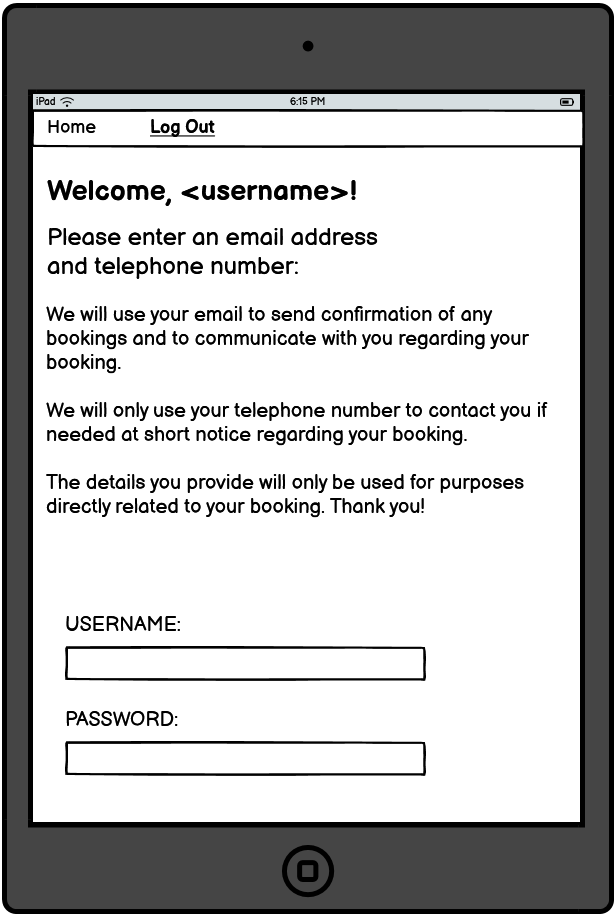
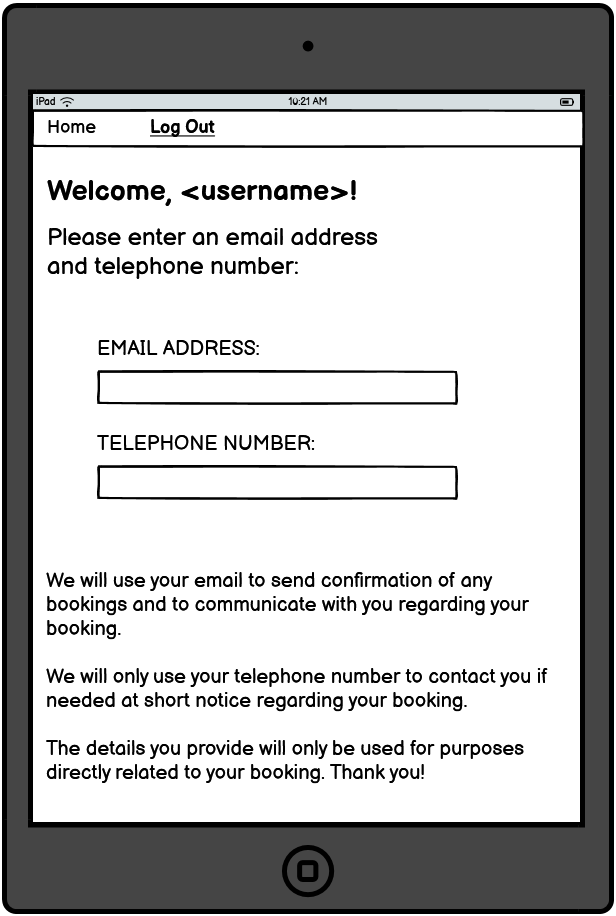
Revise wireframes in readme

Changed region(s): [[0.0617, 0.3362, 0.8945, 0.5808], [0.0617, 0.6114, 0.8945, 0.8559], [0.4627, 0.0917, 0.5244, 0.1223]]

diff --git a/README.md b/README.md
@@ -35,35 +35,43 @@ Finally, as a longer term business goal, Kerry Surf School has begun researching
 ## 3. Features
 ## 4. future features
 ## 5. Typography and color scheme
-## 6. wireframes
+## 6. Wireframes
 
-### 6.1 Home Page
+### 6.1 Home Page on Desktop
 
-![Wireframe of the website home page](documents/home-page.png "Home Page")
+![Wireframe of the website home page on a desktop view](documents/desktop-home-page.png "Home Page on Desktop")
 
-### 6.2 Sign Up/ Log In
+### 6.2 Home Page on Mobile
 
-![Wireframe of the sign up or login page](documents/signup-login.png "Sign Up or Log In")
+![Wireframe of the website home page on a mobile view](documents/mobile-home-page.png "Home Page on Mobile")
 
-### 6.3 Sign Up
+### 6.3 Sign Up/ Log In on Desktop
 
-![Wireframe of the sign up page](documents/signup.png "Sign Up")
+![Wireframe of the sign up or login options page on a desktop view](documents/desktop-sign-up-sign-in.png "Sign Up or Log In on Desktop")
 
-### 6.4 Log In
+### 6.4 Sign Up/ Log In on Mobile
 
-![Wireframe of the log in page](documents/login.png "Log In")
+![Wireframe of the sign up or login options page on a mobile view](documents/mobile-sign-up-sign-in.png "Sign Up or Log In on Mobile")
 
-### 6.5 User Account after first Log In
+### 6.5 Sign Up
+
+![Wireframe of the sign up page](documents/tablet-sign-up.png "Sign Up")
+
+### 6.6 Log In
+
+![Wireframe of the log in page](documents/tablet-log-in.png "Log In")
+
+### 6.7 User Account after first Log In
 
 ![Wireframe of the user account page after the first log in](documents/user-account-first-login.png "User Account after first Log In")
 
-### 6.6 User Account
+### 6.8 User Account
 
 ![Wireframe of the user account page](documents/user-account.png "User Account")
 
-### 6.7 Create Profile
+### 6.9 Create Booking
 
-![Wireframe of the create profile page](documents/create-profile.png "Create Profile")
+![Wireframe of the create booking page](documents/create-booking.png "Create Booking")
 
 ## 7. Database Entity Relationship Diagram
 
